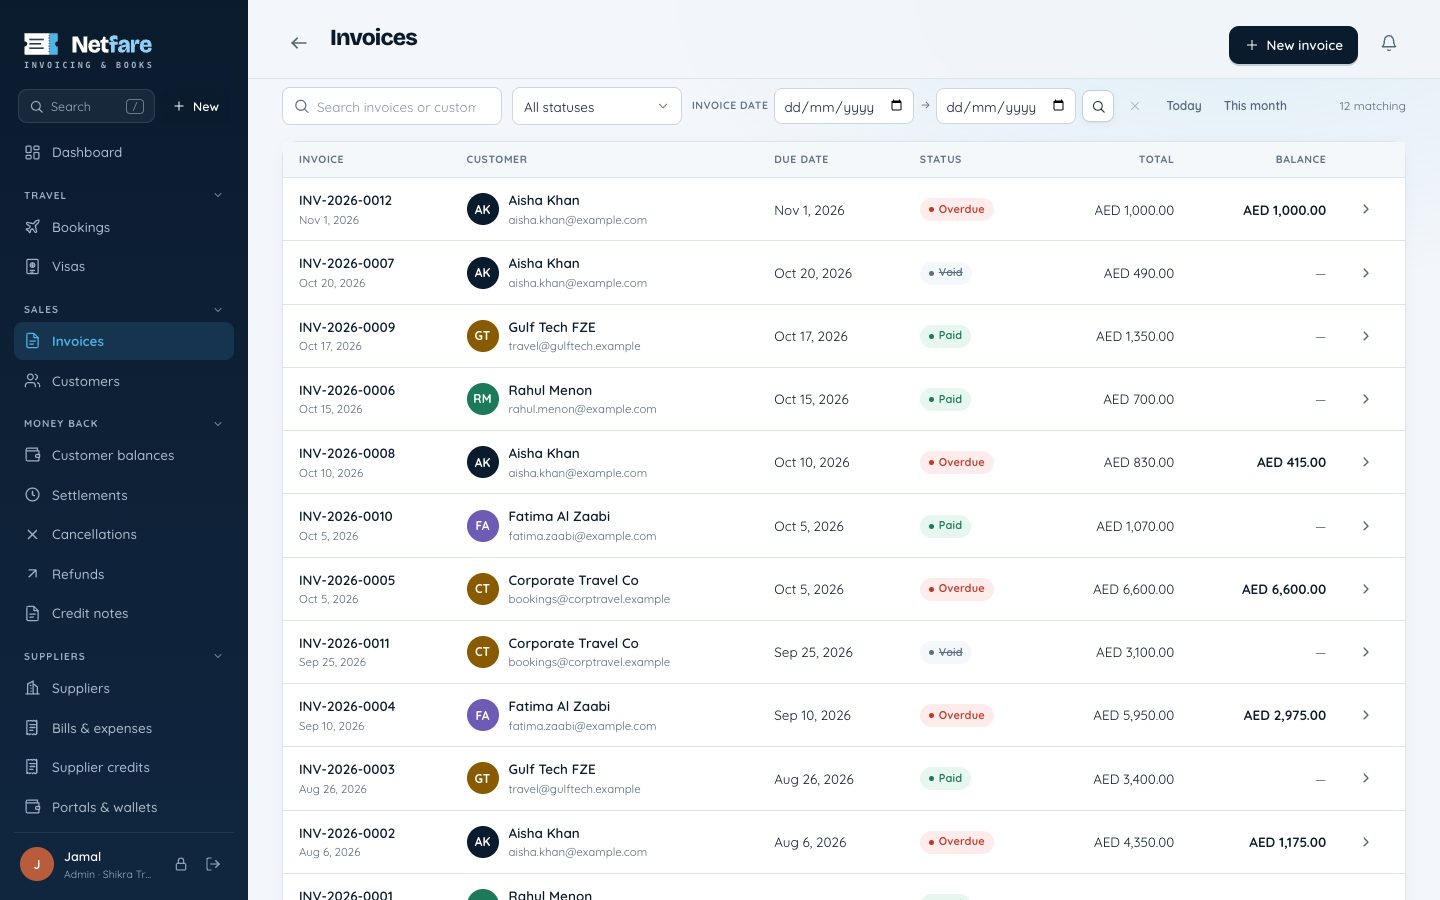
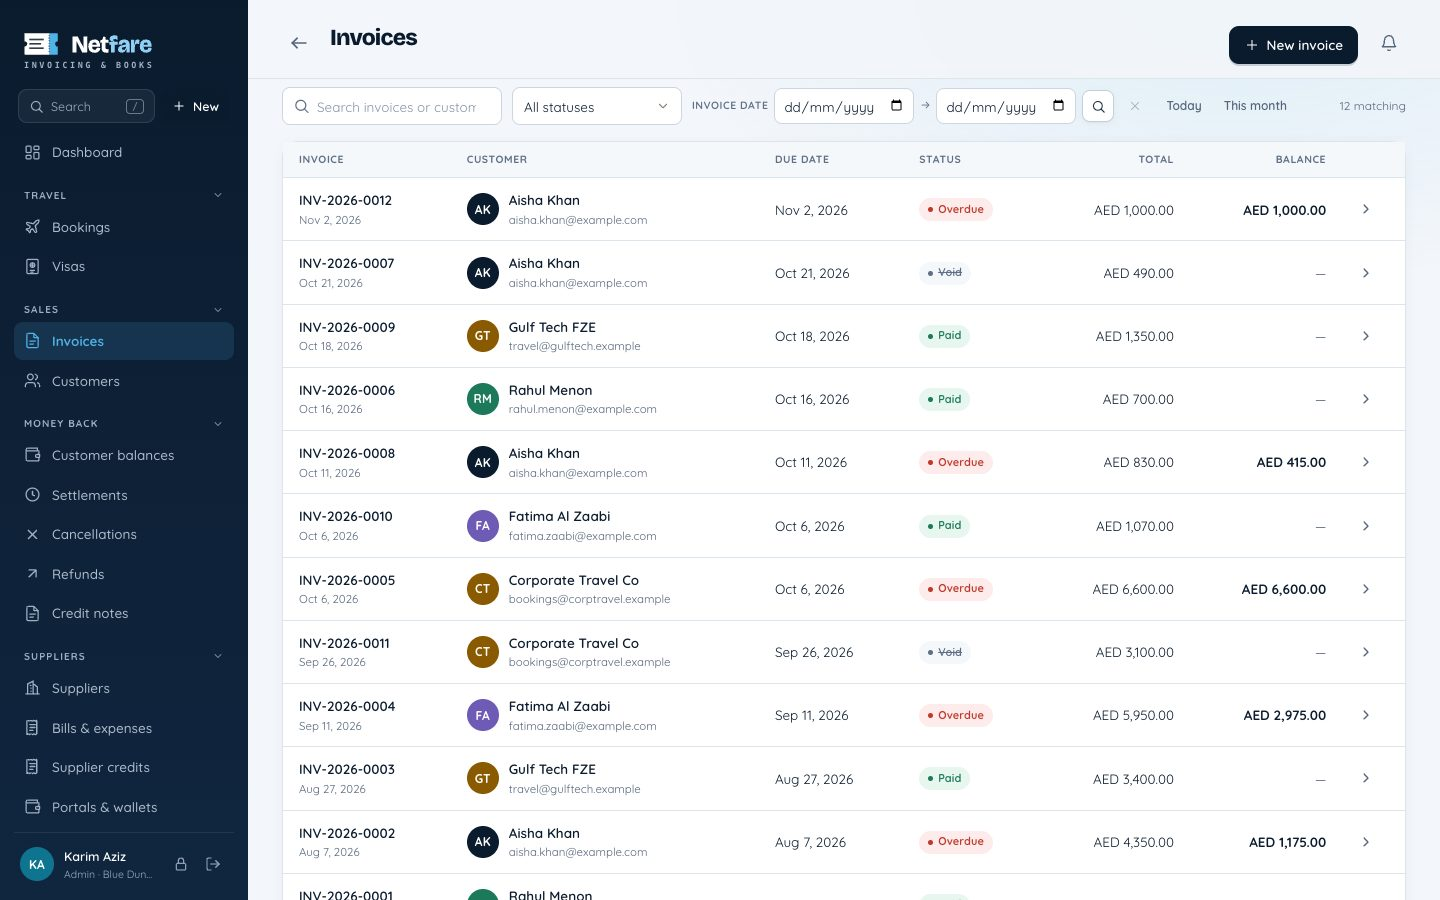
Website screenshots use made-up names
The agency is Blue Dune Travel and the user Karim Aziz, so the pictures
show no real person or company.

diff --git a/scripts/website-screens.js b/scripts/website-screens.js
@@ -14,7 +14,9 @@ const { chromium } = require('playwright-core');
 
 const ROOT = path.join(__dirname, '..');
 const OUT = path.join(ROOT, 'website', 'assets', 'screens');
-const ADMIN = { full_name: 'Jamal', username: 'screens', password: 'screens-pass-1' };
+// Made-up names, so the pictures show no real person or company.
+const ADMIN = { full_name: 'Karim Aziz', username: 'screens', password: 'screens-pass-1' };
+const AGENCY = 'Blue Dune Travel';
 const CHROME = [
   process.env.CHROME_PATH,
   '/Applications/Google Chrome.app/Contents/MacOS/Google Chrome',
@@ -64,11 +66,11 @@ async function main() {
     await post('/api/auth/recovery-key');
     await post('/api/auth/recovery-key/confirm');
     await post('/api/admin/demo');
-    // The sample agency carries ShikraGroup's own name, with no contact details.
+    // A made-up agency name, with no contact details.
     await fetch(`${base}/api/settings`, {
       method: 'PUT',
       headers: { ...json, Cookie: cookie },
-      body: JSON.stringify({ company_name: 'Shikra Travel', company_email: '', company_phone: '', company_address: 'Dubai, United Arab Emirates' }),
+      body: JSON.stringify({ company_name: AGENCY, company_email: '', company_phone: '', company_address: 'Dubai, United Arab Emirates' }),
     });
     await post('/api/users', {
       full_name: 'Sara Counter', username: 'sara', password: 'sara-pass-123',
